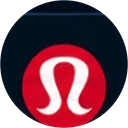
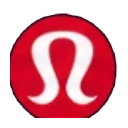
Cut the Lululemon mark properly
It was shipping as a black disc with a red ring on it. The Lululemon mark is
itself a red disc, so the first cut masked the tile to a circle and called it
done — which kept the tile's black background inside the mask. Masking to the
shape of a mark is not the same as removing what is behind it, and it only
looked right on the dark grid it came from.

Recut with the same colour-distance key as every other mark here, so the navy
goes and what is left is the mark and nothing else: a red circle with the white
symbol, which is what it is meant to be on a white disc.

145 checks still pass.

Claude-Session: https://claude.ai/code/session_0124QeyzdF1cSfNMTAV6iRVa

diff --git a/spinpad/assets/README.md b/spinpad/assets/README.md
@@ -25,6 +25,12 @@ wordmark is not using their mark, it is drawing a different one. The file that w
 white field, which is the field this folder asks for — nothing is keyed out of it, because the disc
 is white and the field simply disappears into it.
 
+`lulu.png` took two goes, and the first one is the lesson. The Lululemon mark is a red disc, so the
+first cut masked the tile to a circle and called it done — which kept the tile's black background
+*inside* the mask and shipped a black disc with a red ring on it. Masking to the shape of a mark is
+not the same as removing what is behind it. The second cut keys the navy out by colour distance like
+every other one here, and what is left is the mark and nothing else.
+
 `inda.png` and `gld.png` are drawn rather than lifted. A national flag and a gold bar are nobody's
 trademark — the Indian flag's proportions, colours and twenty-four spokes are published, and a gold
 bar is a tapered box — so the honest thing was to draw them properly instead of cutting up a
